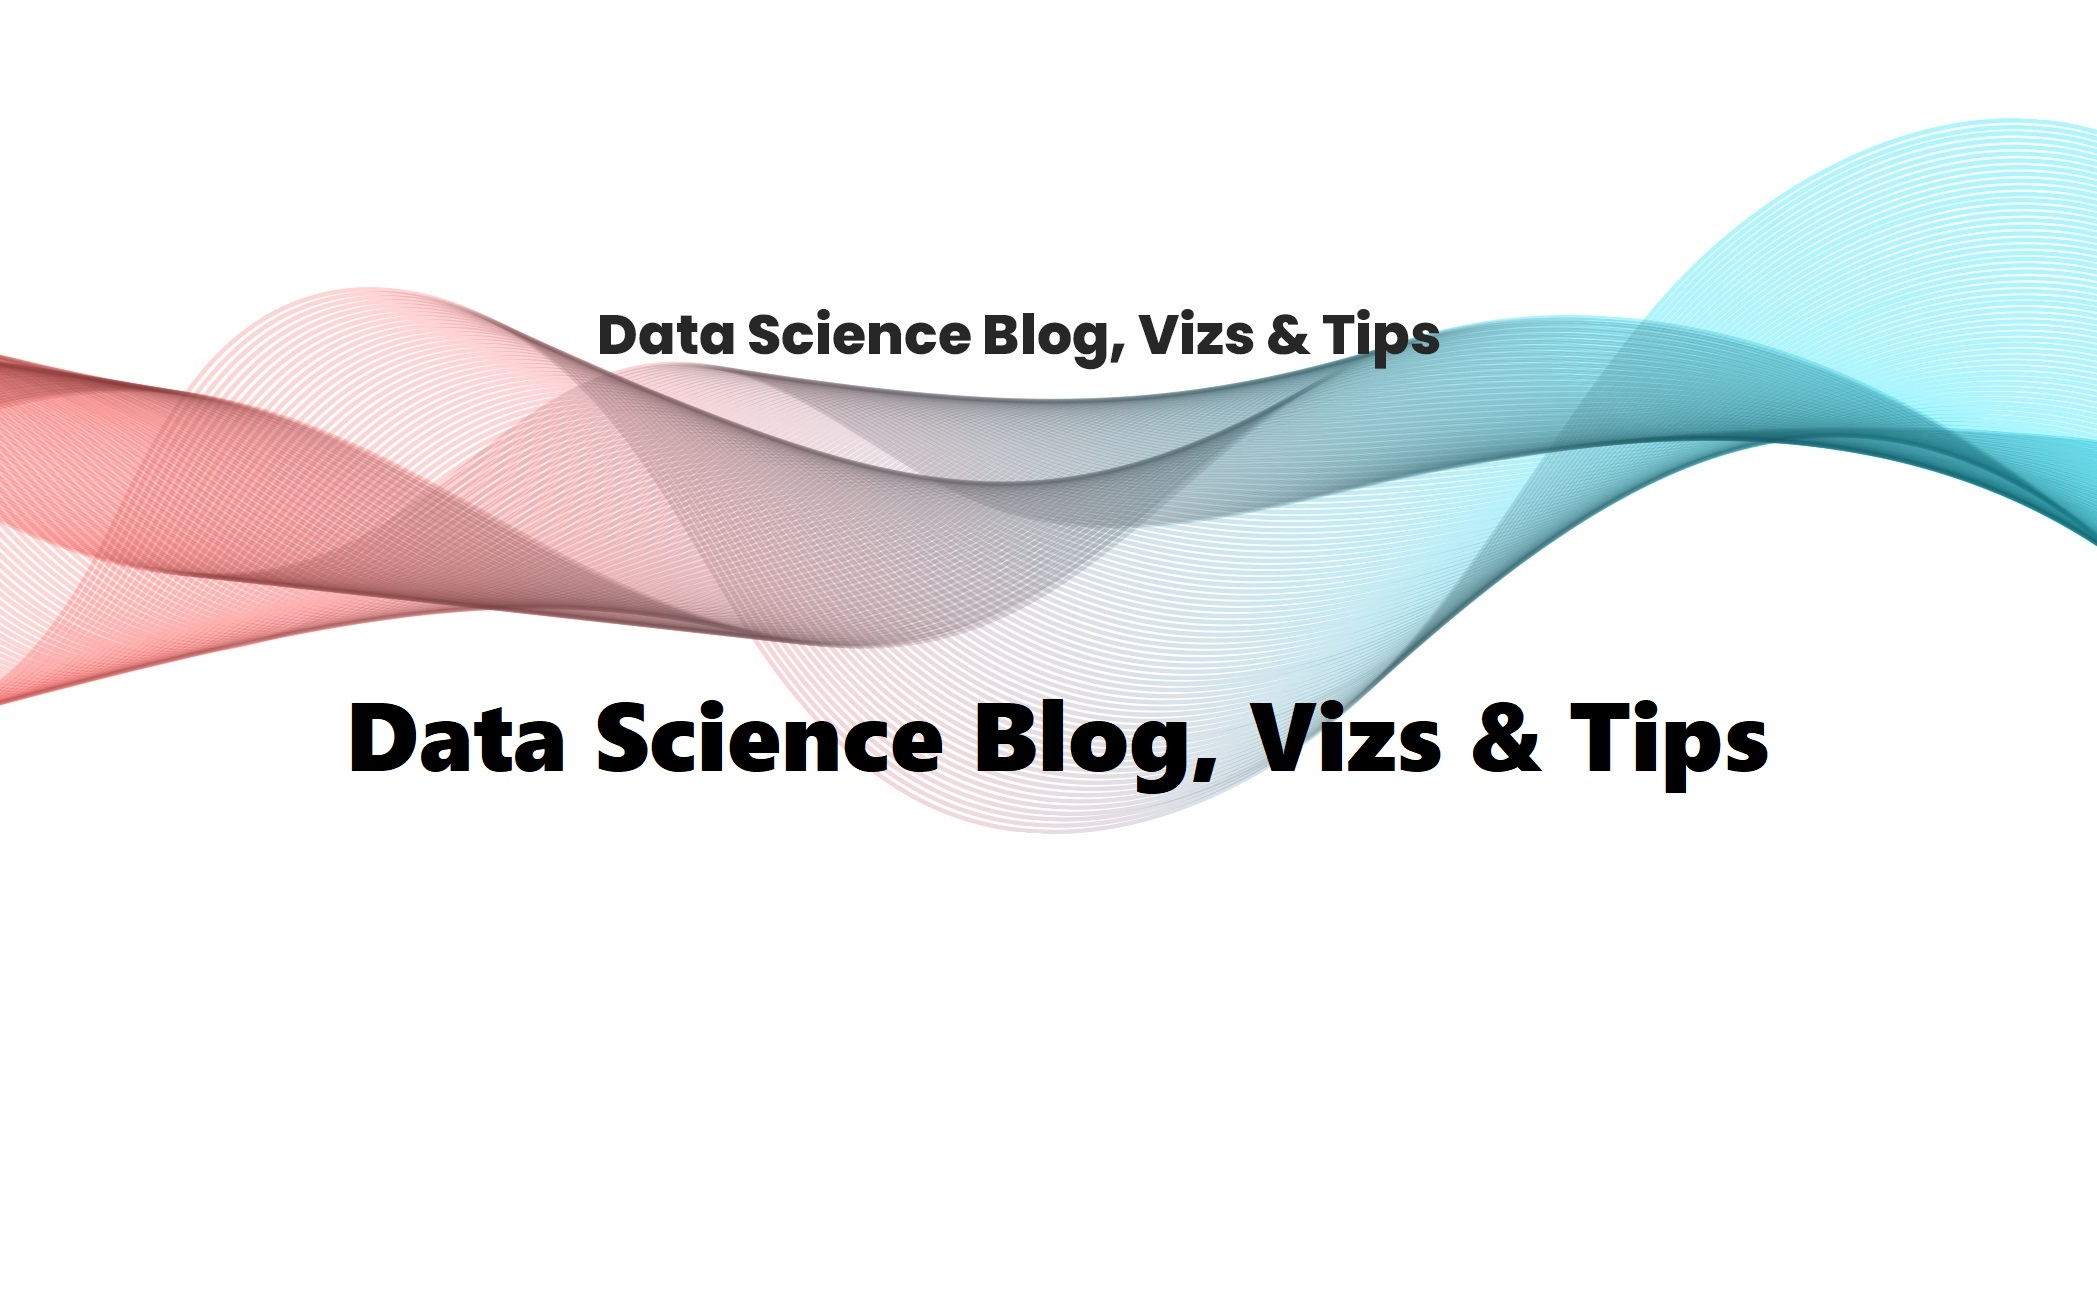
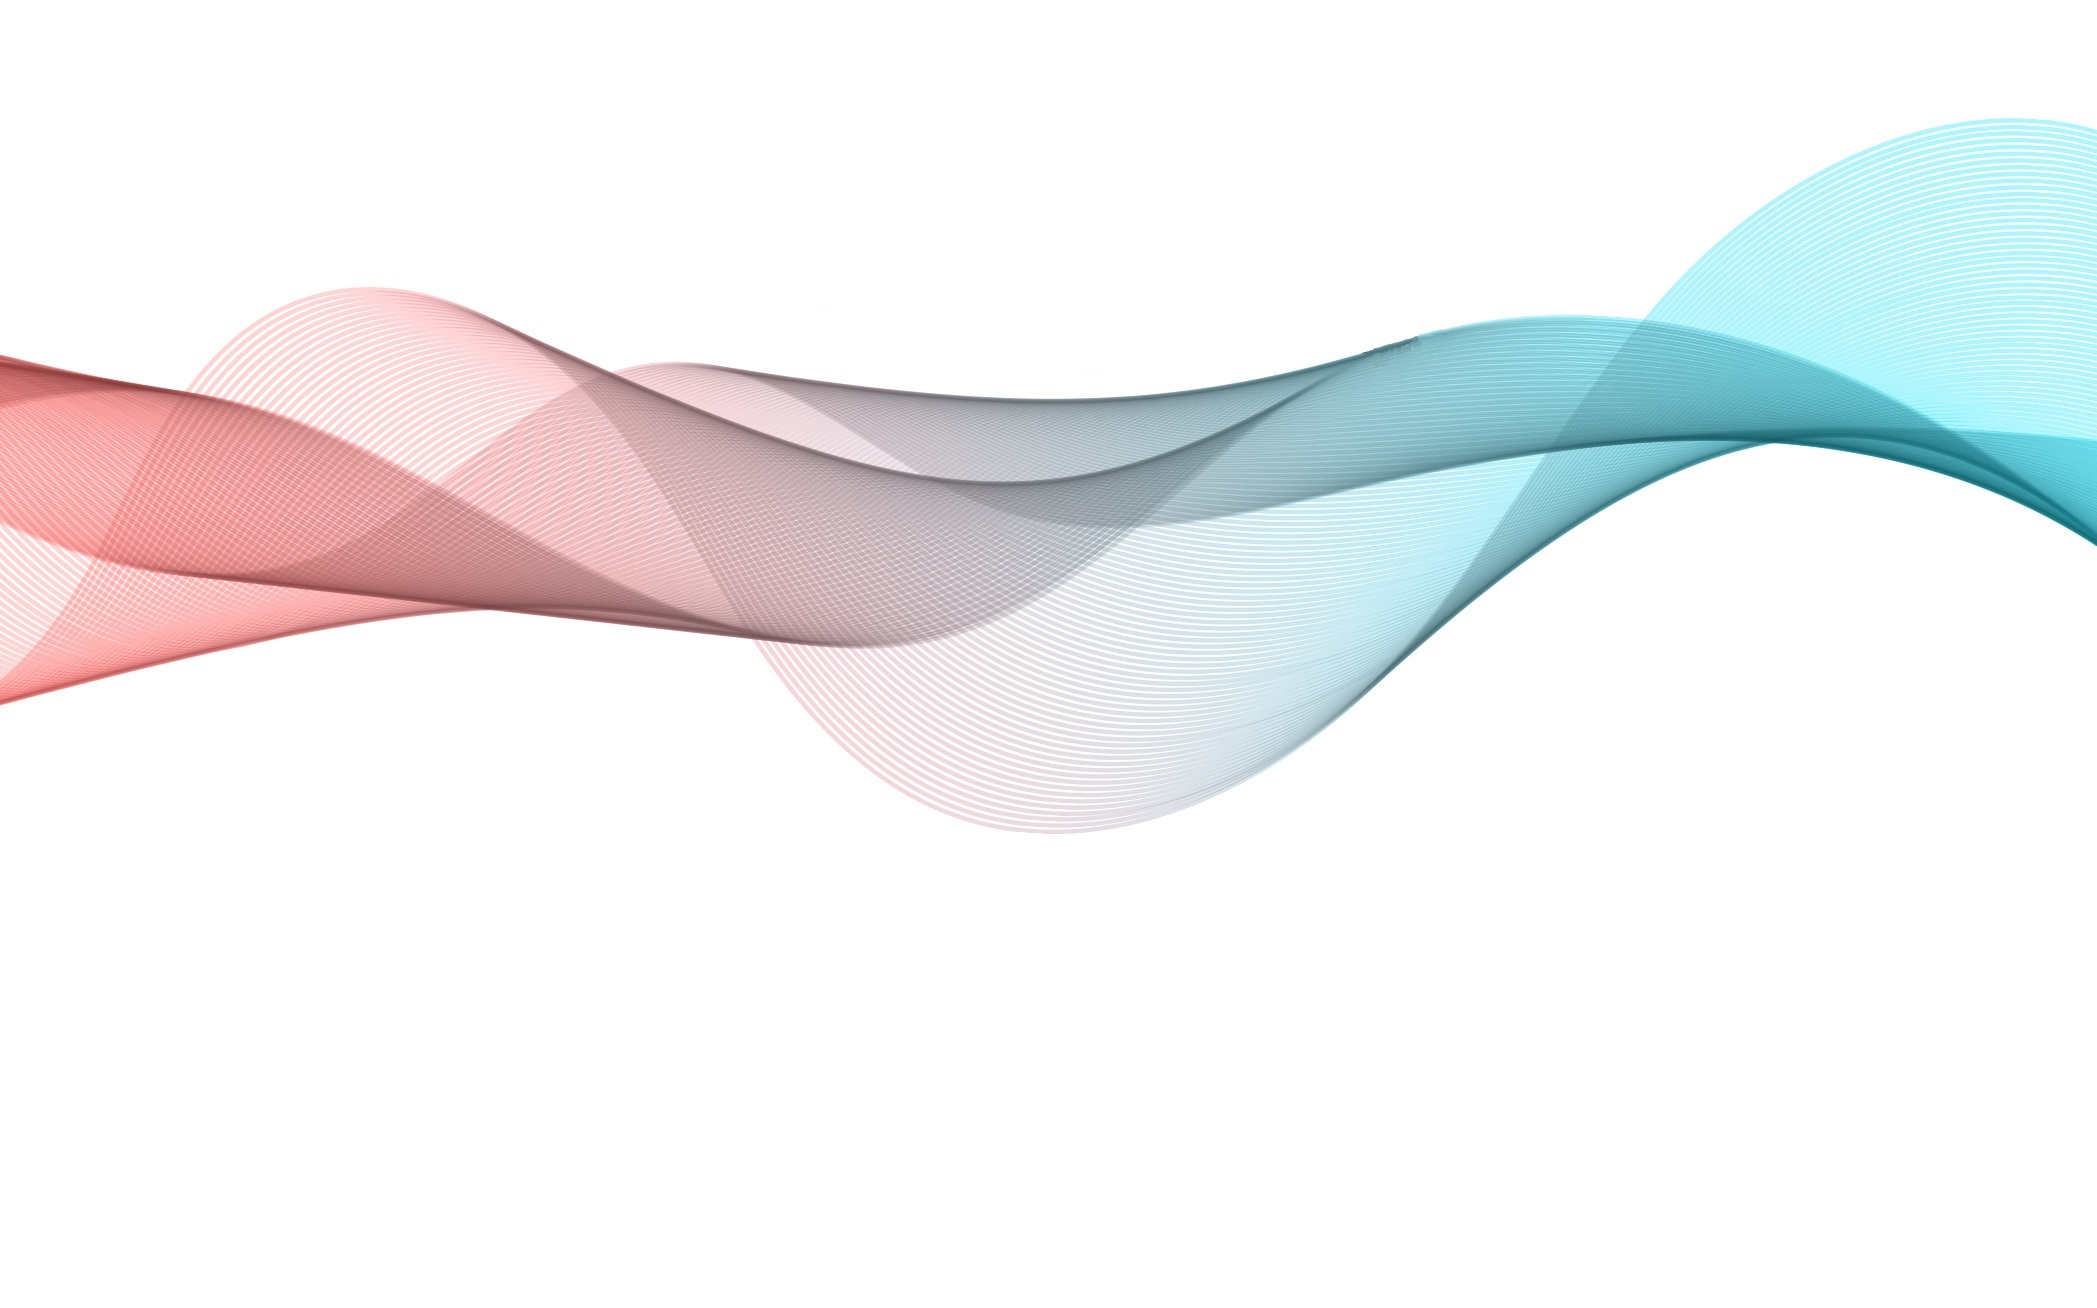
header-text

Changed region(s): [[0.155, 0.5199, 0.8679, 0.6116], [0.279, 0.2446, 0.6819, 0.2752]]

diff --git a/public/es/index.html b/public/es/index.html
@@ -442,7 +442,7 @@
   
   
 
-  <section id="demo" class="home-section wg-blank dark parallax " style="background-image:  url(&#39;/img/headers/header_ttp.jpg&#39;);padding: 80px 0 20px 0;" >
+  <section id="demo" class="home-section wg-blank  parallax " style="background-image:  url(&#39;/img/headers/header_ttp.jpg&#39;);padding: 35px 0 20px 0;" >
     <div class="container">
       
 
@@ -452,7 +452,8 @@
     <div class="col-lg-12">
       
       
-      
+      <h1><font size="10rem"><center><b>Data Science Posts, Vizs & Tips</b></center></font></h1>
+
     </div>
   
 </div>

diff --git a/public/css/custom_header.css b/public/css/custom_header.css
@@ -1,0 +1,2 @@
+
+.reveal section h1{font-size:3rem !important}

diff --git a/static/css/custom_header.css b/static/css/custom_header.css
@@ -1,0 +1,2 @@
+
+.reveal section h1{font-size:3rem !important}

diff --git a/content/es/home/demo.md b/content/es/home/demo.md
@@ -33,11 +33,11 @@ subtitle = ""
   image_darken = 0  # Darken the image? Range 0-1 where 0 is transparent and 1 is opaque.
 
   # Text color (true=light or false=dark).
-  text_color_light = true
-
+  text_color_light = false
+	
 [design.spacing]
   # Customize the section spacing. Order is top, right, bottom, left.
-  padding = ["80px", "0", "20px", "0"]
+  padding = ["35px", "0", "20px", "0"]
 
 [advanced]
  # Custom CSS. 
@@ -46,4 +46,5 @@ subtitle = ""
  # CSS class.
  css_class = ""
 +++
+<h1><font size="10rem"><center><b>Data Science Posts, Vizs & Tips</b></center></font></h1>
 
